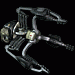
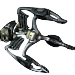
#67 fixed cargo hooks

diff --git a/client-module/src/obj/Inventory.js b/client-module/src/obj/Inventory.js
@@ -89,28 +89,38 @@ export class Inventory {
     // TODO too lot branches
     moveItem(item) {
         if (item.slotId === null) { // unequip equipment
-            let equipmentSlot = this.equipmentSlots.get(item.typeId);
+            let eqSlot = this.equipmentSlots.get(item.typeId);
             let newCell = this.#getCollisionCell(item);
 
+            let success = true;
             if (newCell !== undefined && newCell.getCargo() !== undefined) {
-                this.#swapEquipment(newCell.getCargo(), item);
+                success = this.#swapEquipment(newCell.getCargo(), item);
             } else if (newCell !== undefined) {
-                this.#unequipTo(item, newCell.idx);
+                success = this.#unequipTo(item, newCell.idx);
             } else {
-                equipmentSlot.center();
+                eqSlot.center();
+            }
+
+            if (!success) {
+                eqSlot.center();
             }
         } else { // moving in hold
             let oldCell = this.#getCargoCell(item);
             let newCell = this.#getCollisionCell(item);
 
             let eqSlot;
+            let success = true;
             if (newCell !== undefined) {
                 oldCell.swapCargo(newCell);
             } else if ((eqSlot = this.#getCollisionEquipmentSlot(item)) !== undefined && eqSlot.getEquipment() === undefined) {
-                this.#equip(item);
+                success = this.#equip(item);
             } else if (eqSlot !== undefined && eqSlot.getEquipment() !== undefined) {
-                this.#swapEquipment(item, eqSlot.getEquipment())
+                success = this.#swapEquipment(item, eqSlot.getEquipment())
             } else {
+                oldCell.center();
+            }
+
+            if (!success) {
                 oldCell.center();
             }
         }
@@ -139,25 +149,33 @@ export class Inventory {
         let equipmentSlot = this.equipmentSlots.get(equipment.typeId);
         this.cargoCells[equipment.slotId].removeFromCargoCell();
         equipmentSlot.addToEquipmentSlot(equipment);
+
+        return true;
     }
 
     #swapEquipment(eqAdd, eqRemove) {
         if (eqAdd.typeId !== eqRemove.typeId) {
             alert("Недопустимый тип оборудования для замены!")
+            return false;
         }
         let currSlotId = eqAdd.slotId;
         this.#equip(eqAdd);
         this.addCargoBySlot(eqRemove, currSlotId);
+
+        return true;
     }
 
     #unequipTo(equipment, slotId) {
         if (this.cargoCells[slotId].getCargo() !== undefined) {
             alert("Выбранная ячейка занята!");
+            return false;
         }
 
         let equipmentSlot = this.equipmentSlots.get(equipment.typeId);
         let removedEquipment = equipmentSlot.removeFromEquipmentSlot();
         this.addCargoBySlot(removedEquipment, slotId);
+
+        return true;
     }
 
     changeState() {

diff --git a/client-module/src/render/render.js b/client-module/src/render/render.js
@@ -238,7 +238,7 @@ export function initCargoCell(idx) {
 export function initEquipmentSlot(equipmentType) {
     const texture = pixi.Texture.WHITE;
     const sprite = new pixi.Sprite(texture);
-    sprite.visible = true;
+    sprite.visible = false;
     sprite.width = 60;
     sprite.height = 60;
     sprite.anchor.set(0.5, 0.5);
@@ -256,7 +256,7 @@ export function initEquipmentSlot(equipmentType) {
             sprite.position.set(350, 335);
             break;
         case EquipmentSlotId.CargoHook:
-            sprite.position.set(200, 550);
+            sprite.position.set(217, 438);
             break;
     }
     INVENTORY_CONTAINER.addChild(sprite);

diff --git a/common/src/main/java/message/ItemMessage.java b/common/src/main/java/message/ItemMessage.java
@@ -14,6 +14,7 @@ import lombok.experimental.SuperBuilder;
 @JsonSubTypes({
         @JsonSubTypes.Type(value = EngineMessage.class, name = "engine"),
         @JsonSubTypes.Type(value = FuelTankMessage.class, name = "fuel_tank"),
+        @JsonSubTypes.Type(value = CargoHookMessage.class, name = "cargo_hook"),
 })
 @Getter
 @NoArgsConstructor
